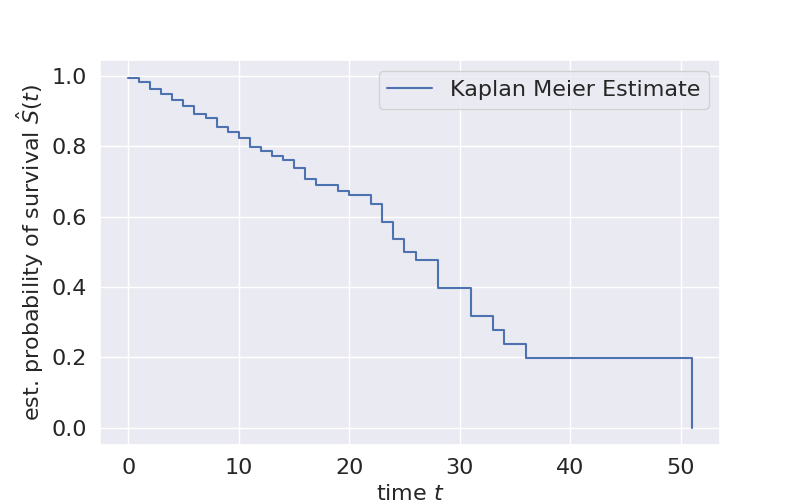
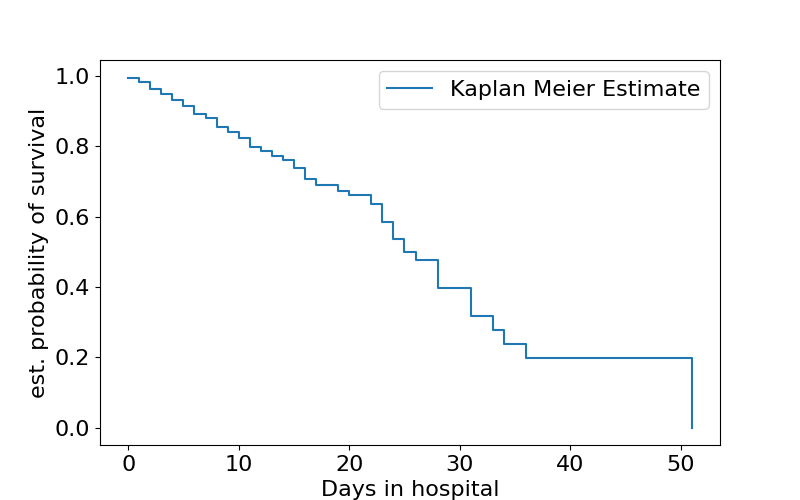
Survival curves plot modified and small changes

diff --git a/__main__.py b/__main__.py
@@ -7,6 +7,11 @@ from sklearn.impute import SimpleImputer
 
 
 def exploratory_analysis(df, maps):
+    """
+    Performs an exploratory analysis over the COVID-19 simulation dataframe
+    :param df: COVID-19 simulation dataframe
+    :param maps: dictionaries for categorical values
+    """
     fig = df.hist(column=['TEMP', 'HEART_RATE', 'SAT_O2', 'BLOOD_PRES_SYS', 'BLOOD_PRES_DIAS'], figsize=(15, 10),
                   xlabelsize=16, ylabelsize=16)
     [x.title.set_size(16) for x in fig.ravel()]
@@ -63,8 +68,10 @@ def exploratory_analysis(df, maps):
 
 
 def correlation_analysis(df):
-    # Correlation
-
+    """
+    Performs a correlation analysis over the COVID-19 simulation dataframe
+    :param df: COVID-19 simulation dataframe
+    """
     fig, ax = plt.subplots(figsize=(12, 10))
 
     sns.set(font_scale=1.5)
@@ -76,6 +83,10 @@ def correlation_analysis(df):
 
 
 def survival_curves(df):
+    """
+    Calculates survival curves for the COVID-19 simulation dataframe
+    :param df: COVID-19 simulation dataframe
+    """
     # Survival curves
     time = df['DAYS_HOSPITAL']
     event_observed = df['EXITUS']
@@ -89,42 +100,38 @@ def survival_curves(df):
     # ci_show is meant for Confidence interval, since our data set is too tiny, thus we are not showing it.
     kmf.plot_survival_function(ci_show=False)
 
-    ax.set_ylabel("est. probability of survival $\hat{S}(t)$", fontsize=16)
-    ax.set_xlabel("time $t$", fontsize=16)
+    ax.set_ylabel("est. probability of survival", fontsize=16)
+    ax.set_xlabel("Days in hospital", fontsize=16)
     ax.tick_params(axis='both', which='major', labelsize=16)
     ax.legend(prop={'size': 16})
     plt.savefig("imgs/kaplan_meier.png")
 
+    # Separate ICU treatment and no treatment
+    fig2, ax2 = plt.subplots(figsize=(8, 5))
+
     g1 = df['DAYS_ICU'] == 0
     g2 = df['DAYS_ICU'] > 0
-
-    # create a kmf object
     kmf = KaplanMeierFitter()
+
     kmf.fit(time[g1], event_observed[g1], label='No ICU')  # fit the cohort 1 data
-
-    fig2, ax2 = plt.subplots(figsize=(8, 5))
     kmf.plot_survival_function()
-
-    ax2.set_ylabel("est. probability of survival $\hat{S}(t)$", fontsize=16)
-    ax2.set_xlabel("time $t$", fontsize=16)
-    ax2.tick_params(axis='both', which='major', labelsize=16)
-    ax2.legend(prop={'size': 16})
-    plt.savefig("imgs/kaplan_meier_no_icu.png")
 
     kmf.fit(time[g2], event_observed[g2], label='ICU treatment')  # fit the cohort 2 data
-
-    fig3, ax3 = plt.subplots(figsize=(8, 5))
     kmf.plot_survival_function()
 
-    ax3.set_ylabel("est. probability of survival $\hat{S}(t)$", fontsize=16)
-    ax3.set_xlabel("time $t$", fontsize=16)
-    ax3.tick_params(axis='both', which='major', labelsize=16)
-    ax3.legend(prop={'size': 16})
-    plt.savefig("imgs/kaplan_meier_icu.png")
+    ax2.set_ylabel("est. probability of survival", fontsize=16)
+    ax2.set_xlabel("Days in hospital", fontsize=16)
+    ax2.tick_params(axis='both', which='major', labelsize=16)
+    ax2.legend(prop={'size': 16})
+    plt.savefig("imgs/kaplan_meier_comp.png")
 
 
 def preprocess(df):
-    # Missing values
+    """
+    Preprocessing of the COVID-19 simulation dataframe
+    :param df: COVID-19 simulation dataframe
+    :return: processed dataframe
+    """
     print('--------------MISSING VALUES--------------')
     print(df.isnull().sum())
 
@@ -154,7 +161,7 @@ def preprocess(df):
     print(df.sort_values(by='AGE', ascending=False).head(10))
     df = df[df['AGE'] <= 120]
 
-    print('\n--------------MOST DAYS IN HOSPITAL. 10 ELEMENTS--------------')
+    print('\n--------------LESS DAYS IN HOSPITAL. 10 ELEMENTS--------------')
     print(df.sort_values(by='DAYS_HOSPITAL', ascending=True).head(10))
     df1 = df[(df.TEMP == 0) & (df.HEART_RATE == 0) & (df.GLUCOSE == 0) & (df.SAT_O2 == 0) & (df.BLOOD_PRES_SYS == 0) & (
             df.BLOOD_PRES_DIAS == 0)]
@@ -168,10 +175,6 @@ def preprocess(df):
     print(df.sort_values(by='HEART_RATE', ascending=False).head(10))
     df = df[df['HEART_RATE'] <= 200]
 
-    print('\n--------------HIGHEST GLUCOSE. 10 ELEMENTS--------------')
-    print(df.sort_values(by='GLUCOSE', ascending=False).head(10))
-    # Mirar en internet a partir de qué valor es imposible
-
     print('\n--------------HIGHEST BLOOD_PRES_SYS. 10 ELEMENTS--------------')
     print(df.sort_values(by='BLOOD_PRES_SYS', ascending=False).head(10))
     df = df[df['BLOOD_PRES_SYS'] <= 200]
@@ -182,6 +185,8 @@ def preprocess(df):
 
     print('\n--------------NUMBER OF VALUES EQUAL TO ZERO--------------')
     print((df == 0).astype(int).sum(axis=0))
+    print('\n--------------DATAFRAME SHAPE--------------')
+    print(df.shape)
 
     df.pop('GLUCOSE')
     df['EXITUS'] = df['EXITUS'].astype('category')
@@ -205,8 +210,8 @@ def main():
     # Save processed DataFrame
     df.to_csv('processed_COVID.csv', header=True, index=False)
 
-    exploratory_analysis(df, maps)
-    correlation_analysis(df)
+    # exploratory_analysis(df, maps)
+    # correlation_analysis(df)
     survival_curves(df)
 
 
